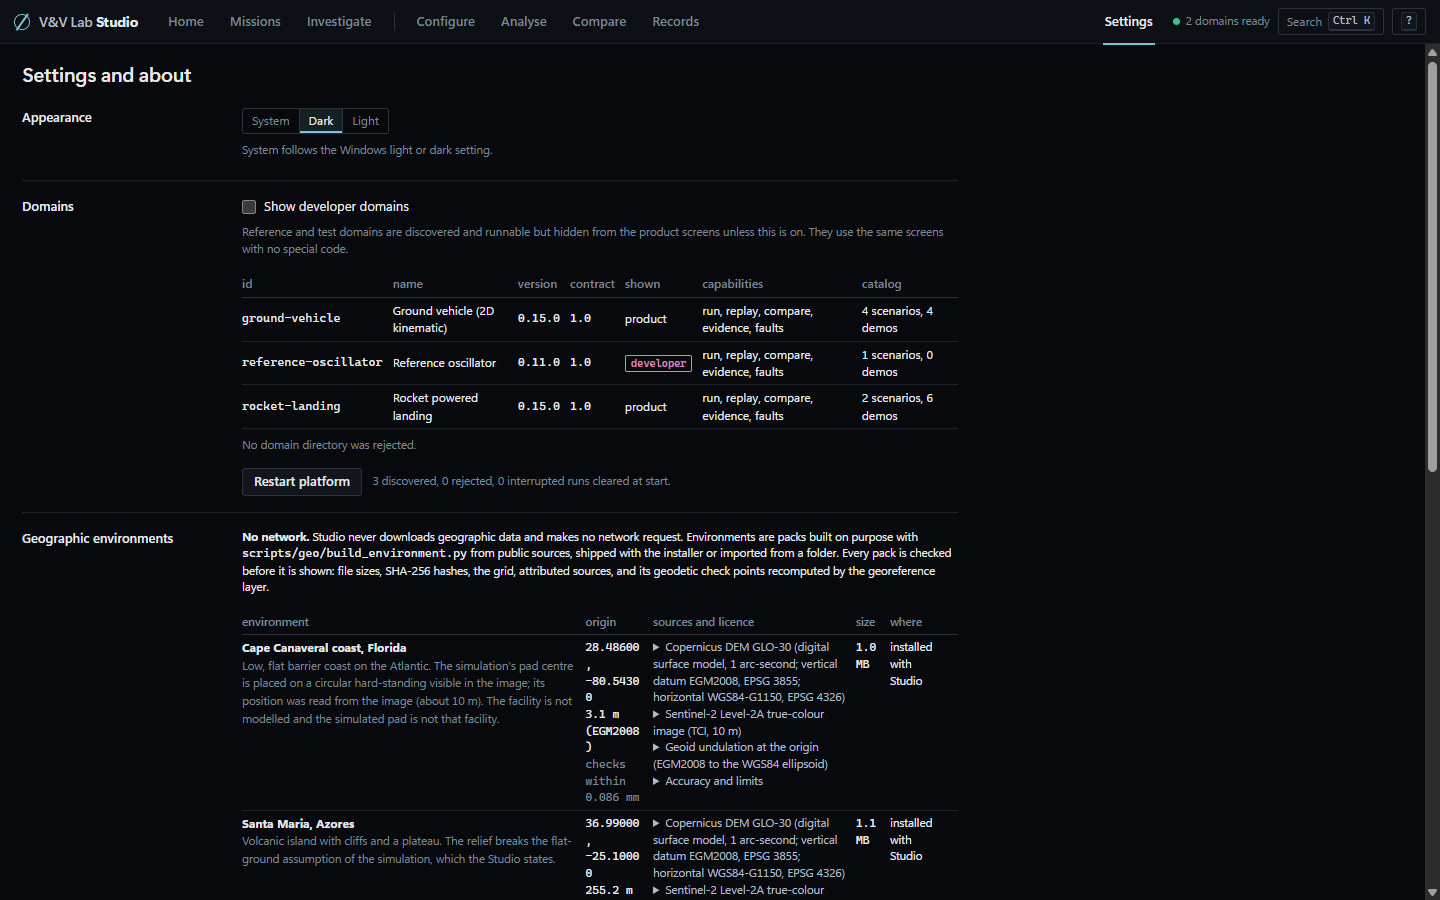
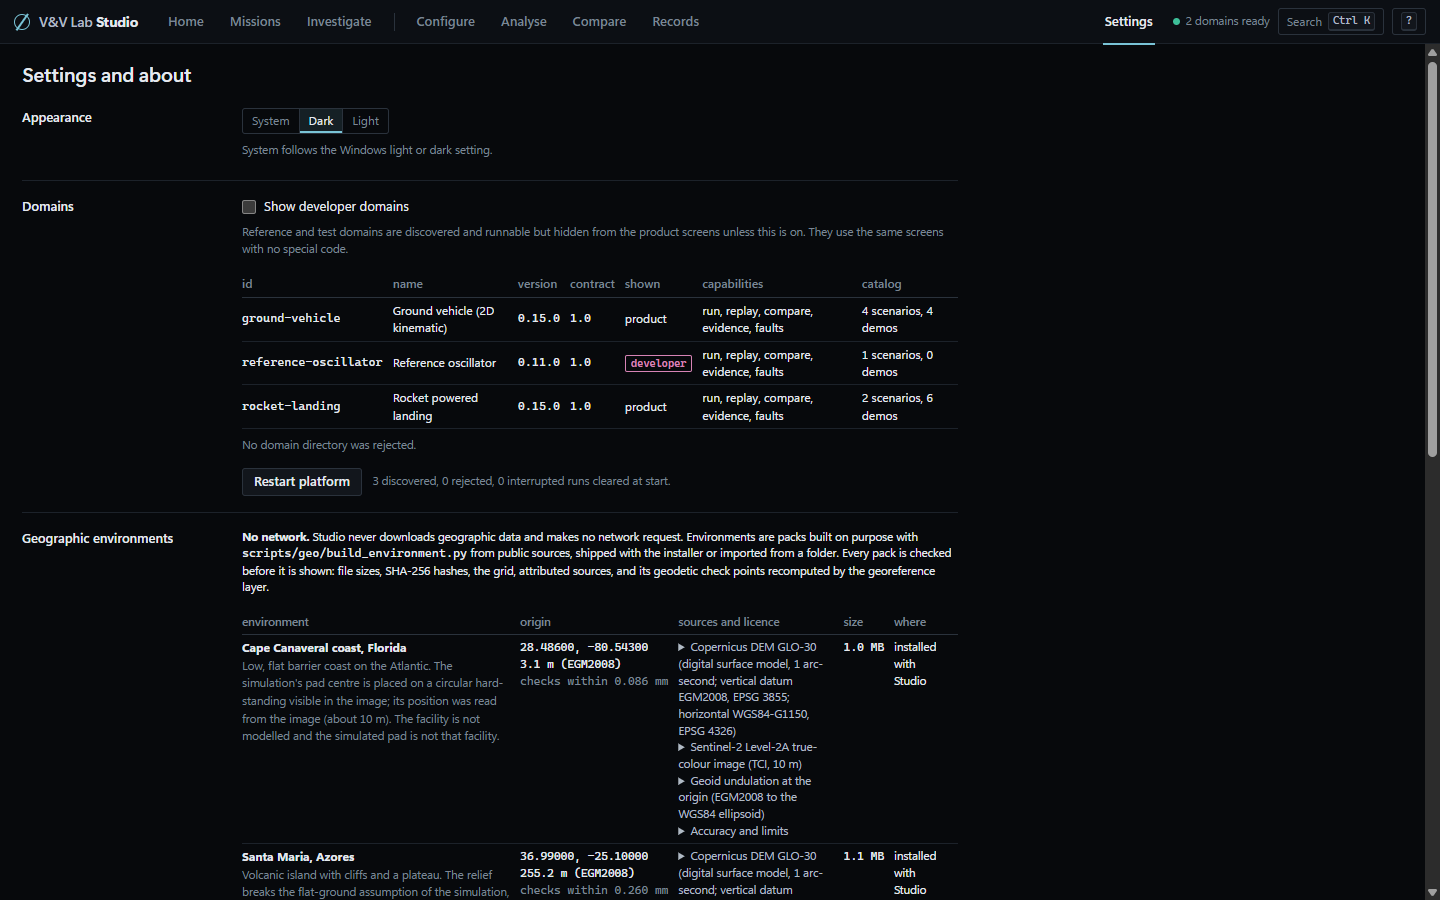
docs: record the final M16 installer, journeys and the visual review
Claude-Session: https://claude.ai/code/session_011CgDRgP5XH1nUFaYz3DhuV

Changed region(s): [[0.1562, 0.6844, 0.6562, 0.9956], [0.9688, 0.4978, 1.0, 0.5289]]

diff --git a/docs/m16-geospatial-mission-control.md b/docs/m16-geospatial-mission-control.md
@@ -106,11 +106,11 @@ O ecrã limita a 165 fotogramas por segundo, por isso o p99 de 6,2 ms é o limit
 
 ## Instalação e reversão
 
[2 lines of base64/hex data omitted]
 
 ## Revisões independentes
 
-Três revisões por agentes, cada uma sobre o código e não sobre as conclusões deste texto:
+Quatro revisões por agentes (a quarta, visual e de acessibilidade, sobre as capturas do Studio instalado), as três primeiras sobre o código e não sobre as conclusões deste texto:
 
 - **Geodésia e coerência com a física.** Confirmou as fórmulas WGS84 e ENU, o registo da imagem (sem desvio de meio texel nem inversão norte-sul), a orientação da grelha nas três linguagens e o datum; recalculou os pontos de controlo com o pipeline topocêntrico do PROJ (pior diferença 0,26 mm). Corrigido em `e907602`: pacotes com rumo diferente de zero recusados (o renderizador ainda não roda o referencial), interpolação nos triângulos desenhados, planos de recorte depois de mudar de câmara, extensões exatas, linha vertical abaixo de z = 0, falha do geoide no script.
 - **Segurança e licenças.** Sem problema explorável. Corrigido em `da4f543`: tamanho real do JPEG igual ao declarado, nomes de dispositivos do Windows recusados, limpeza da importação falhada. Atribuições conferidas com o texto das licenças.
@@ -123,6 +123,8 @@ Uma revisão de agente não substitui um teste de usabilidade com pessoas, que n
 - A faixa de fases do leitor do M15 continua a marcar as violações desde o início; no Mission Control só são nomeadas quando a reprodução lá chega.
 - Os grupos de rádio não têm navegação por setas (só Tab).
 - Uma terceira execução de desempenho do M16.
+- Revisão visual por agente (corrigida em grande parte depois): a 1024x640 os distintivos dos veredictos ficam cortados na margem do painel direito.
+- As medições de desempenho foram feitas antes das últimas correções visuais (só CSS e o cartão de evidência); as jornadas e o `--self-test` foram repetidos no instalador final.
 
 ## Próxima expansão de domínio
 
